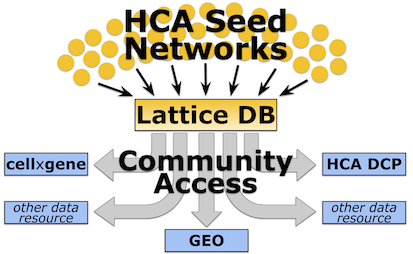
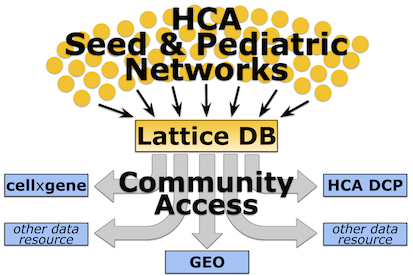
update home page for Pediatric Networks and cxg curation

diff --git a/src/encoded/static/components/home.js b/src/encoded/static/components/home.js
@@ -58,45 +58,37 @@ class HomeContent extends React.Component {
                     <div className="header">
                         <h1>Lattice</h1>
                         <img src="static/img/lattice-cells.png" alt="Lattice DB" className="logo" />
-		    </div>
+		                </div>
 
-                    <div className="site-banner__intro main-content">
-                       <p>Lattice is the acting Data Coordination Center for the CZI Seed Networks.</p>
-                       <div className="quote">
-                          <i>"The Seed Networks for the Human Cell Atlas projects bring together experimental scientists, computational biologists, software engineers, and physicians to support the continued development of the Human Cell Atlas (HCA), an international effort to map all cells in the human body as a resource for better understanding health and disease." <br />- <a href="https://chanzuckerberg.com/science/programs-resources/humancellatlas/seednetworks/" target="_blank">Human Cell Atlas Seed Networks</a></i>
-                        </div>
-                     </div>
-                     <div className="site-banner main-content">
+                    <div className="site-banner main-content">
                         <div className="site-banner__intro text-side">
-                            <p>The Lattice team collaborates with researchers in each of the 38 Seed Networks to represent sample acquisition, experimental procedures, and data processing steps in structured metadata [<a href="/data-organization">learn more about our Data Organization</a>]. We wrangle metadata, raw data, and analysis outputs into the Lattice database which provides Seed Network contributors the opportunity for intra- and inter-Seed Network data sharing prior to data release. Through tight collaboration with the computational biologists in the Seed Networks, Lattice ensures essential information is captured to facilitate the generation of a reference atlas of the cells in the human body.</p>
-		            <p>As stewards for the Seed Network data, the Lattice team actively seeks out opportunities to maximize the value of the data through enhanced findability and reuse. We collaborate with other single-cell data centers to migrate the standardized data corpus from the Lattice database to their open data resources, allowing for Seed Network data to be easily integrated with community tools and data collections.</p>
+                            <p>Lattice are the Data Coordination Center for the Human Cell Atlas <a href="https://chanzuckerberg.com/science/programs-resources/humancellatlas/seednetworks/" target="_blank">Seed Networks</a> and <a href="https://chanzuckerberg.com/science/programs-resources/single-cell-biology/pediatric-networks/" target="_blank">Pediatric Networks</a>.</p>
+                            <p>The Lattice team collaborates with researchers in each of the 38 Seed Networks and 17 Pediatric Networks to represent sample acquisition, experimental procedures, and data processing steps in structured metadata [<a href="/data-organization">learn more about our Data Organization</a>]. We wrangle metadata, raw data, and analysis outputs into the Lattice database which provides contributors the opportunity for intra- and inter-Network data sharing prior to data release.</p>
+    		                    <p>As stewards for the Seed Network and Pediatric Network data, the Lattice team actively seeks out opportunities to maximize the value of the data through enhanced findability and reuse. We collaborate with other single-cell data centers to migrate the standardized data corpus from the Lattice database to their open data resources, allowing for data to be easily integrated with community tools and data collections.</p>
                         </div>
                         <div className="img-side">
                             <img src="static/img/lattice-banner.png" alt="Lattice DB" />
                         </div>
                     </div>
 
-                    <div className="contacts">
-                        <div className="site-banner__intro contact">
-                           <div className="contact-group">
-                              <p className="call-contact">Seed Network researchers</p>
-                              <p>Do you have data to submit?</p>
-                              <p>Have questions about metadata collection?</p>
-                           </div>
-                           <div className="contact-group">
-                              <p className="call-contact">Community data resources</p>
-                              <p>Interested in integrating Seed Network data?</p>
-                              <p>Have questions about the Lattice data model & schema?</p>
-                           </div>
+                    <div className="site-banner main-content">
+                        <div className="img-side">
+                            <img src="static/img/tabula_sapiens_cxg.png" alt="CXG UMAP" />
                         </div>
-                        <div className="site-banner__intro contact">
-                           <p className="email-us">Contact the Lattice team at <a href="mailto:lattice-info@lists.stanford.edu"> lattice-info@lists.stanford.edu</a></p>
+                        <div className="site-banner__intro text-side">
+                            <p>Lattice are also the Lead Curation Team for <a href="https://cellxgene.cziscience.com/" target="_blank">cellxgene</a>.</p>
+                            <p>Lattice work with cellxgene developers and computational bioologists at the Chan Zuckerberg Initiative to develop a cell-based schema that captures and standardizes key biological and technical variables that impact single-cell data.</p>
+                            <p>We facilitate the submission of data as a means to enhance the data sharing and exploration of a each dataset, individually, while ensuring a harmonized data corpus that can be readily searched, filtered, and integrated.</p>
+                            <p>Image to the left is from the <a href="https://cellxgene.cziscience.com/e/53d208b0-2cfd-4366-9866-c3c6114081bc.cxg/" target="_blank">Tabula Sapiens dataset</a>.</p>
                         </div>
+                    </div>
+                    <div className="site-banner__intro contact">
+                        <p className="email-us">Contact the Lattice team at <a href="mailto:lattice-info@lists.stanford.edu"> lattice-info@lists.stanford.edu</a></p>
                     </div>
                     <div className="site-banner__intro credits">
                         <p>The Lattice team consists of data wranglers & software developers within the Cherry Lab at the Stanford University Department of Genetics. <a href="https://cherrylab.stanford.edu/people/human-cell-atlas/grid" target="_bank">Meet the team</a></p>
                         <p className="italic">Lattice is funded by the Chan Zuckerberg Initiative (CZI).</p>
-                        <p className="italic">Lattice logo adapted from the <a href="https://www.humancellatlas.org/" target="_blank">Human Cell Atlas</a> by Idan Gabdank, Ph.D.</p>
+                        <p className="italic">Lattice logo by Idan Gabdank, Ph.D.</p>
                     </div>
                 </div>
             </div>
